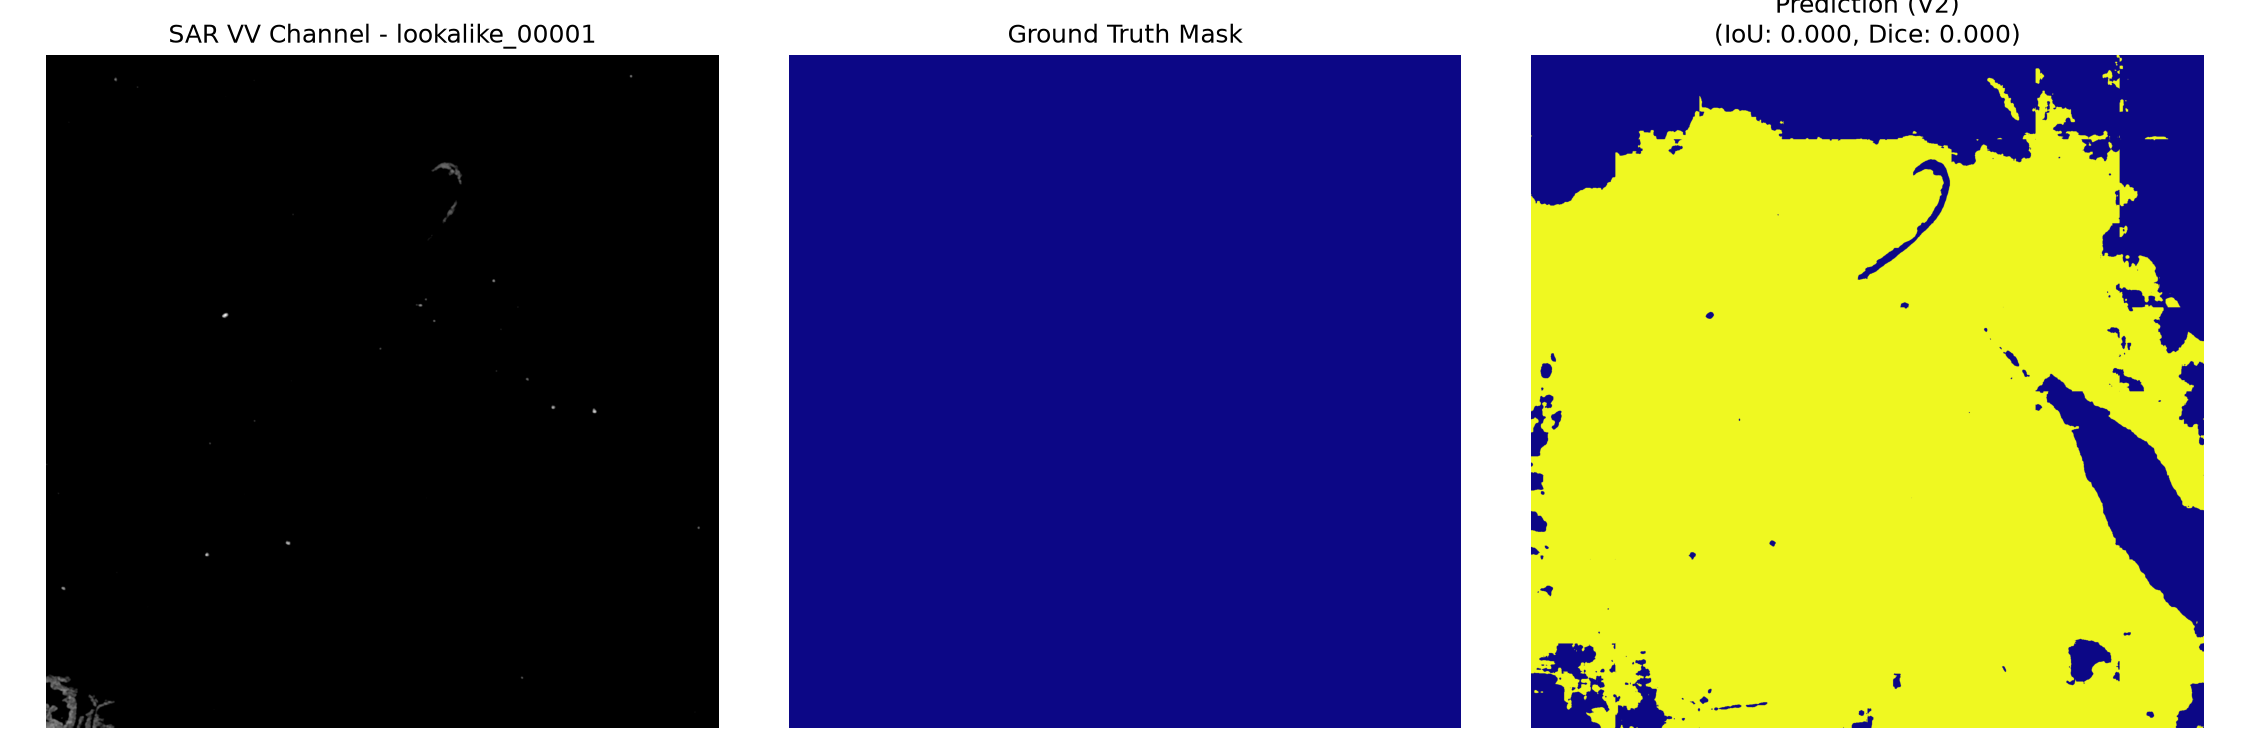
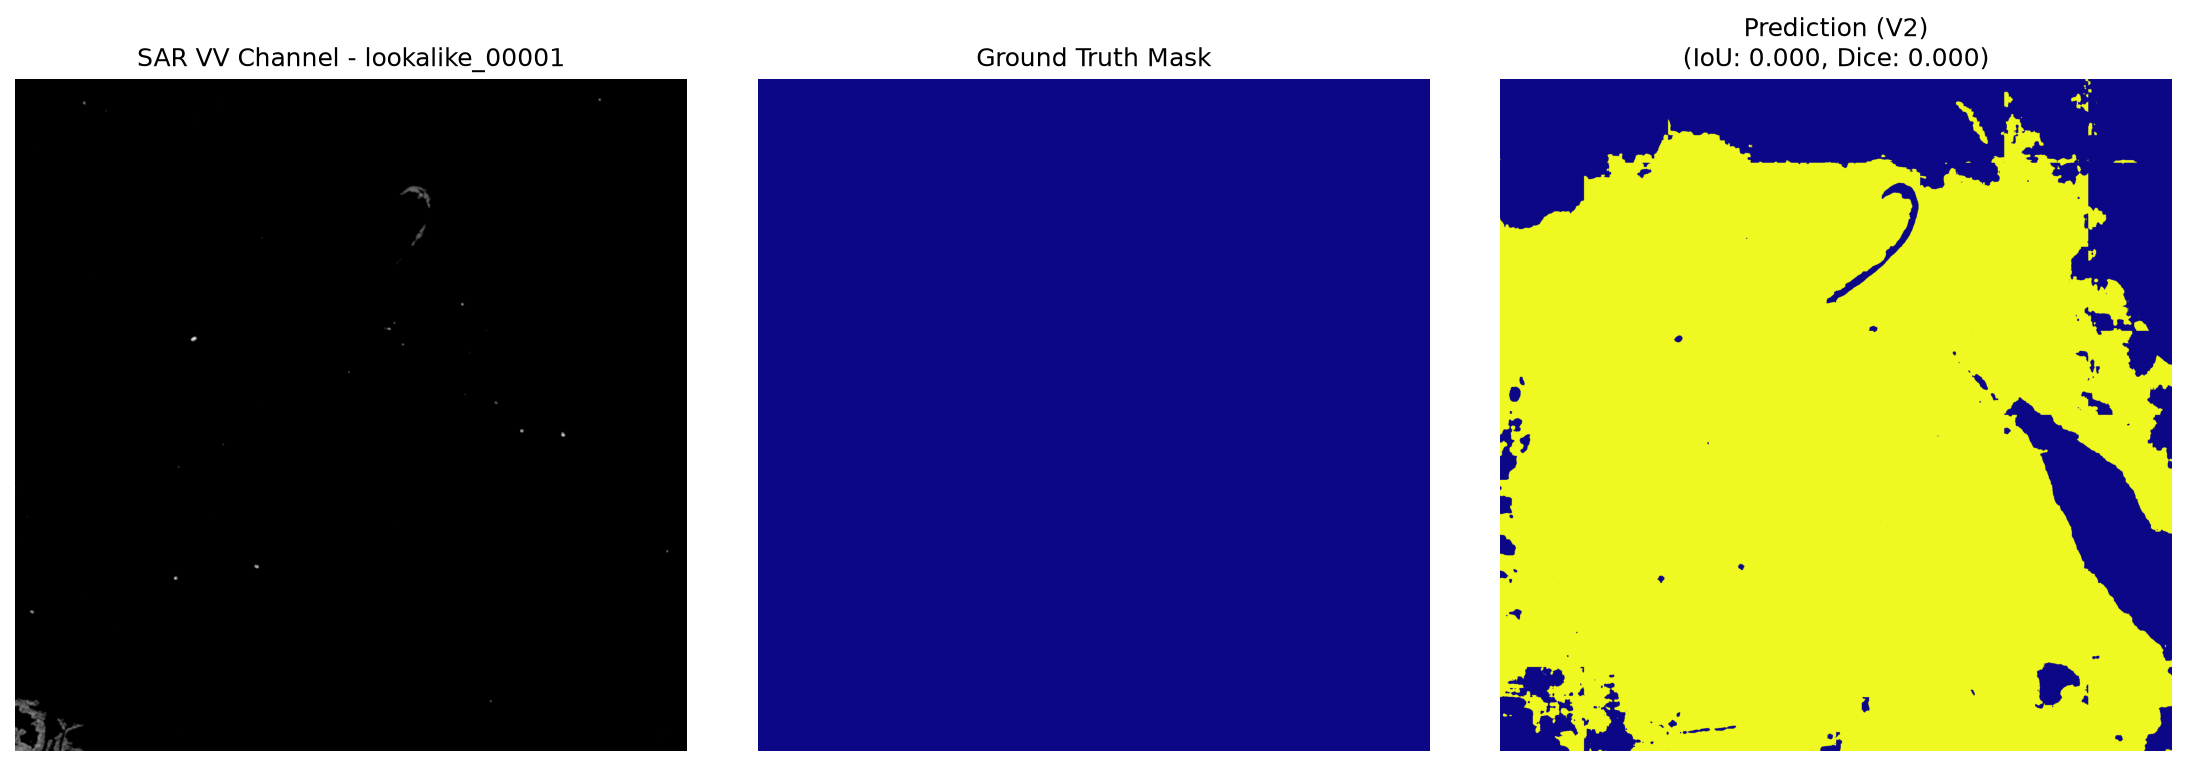
Fix title-clipping bug in evaluate_holdout.py, regenerate all 14 viz images
Root cause, found by reading the code rather than assuming: the third
subplot's title is two lines ("Prediction (V1/V2)\n(IoU: ..., Dice:
...)") while the other two panels' titles are one line. plt.tight_layout()
sizes the axes to fit within the figure's *existing* bounds -- it can
shrink the plot area but can't grow the canvas to fit a taller title.
The top of that two-line title rendered past the nominal figure bounds,
and savefig() (called without bbox_inches) silently clipped it.

Fixed properly, not a padding hack: added bbox_inches="tight" to the
savefig() call, which computes the actual rendered bounding box
(including anything that overflows the nominal figure size) and
includes all of it in the saved raster -- the standard matplotlib
mechanism for exactly this failure mode, already used elsewhere in this
project's own chart-generation code.

Verified in three stages: (1) reproduced the clipping bug in an
isolated minimal repro before touching the real script, (2) confirmed
the fix resolves it in that same isolated repro, (3) regenerated all 14
real images (v1 + v2 across all 7 viz scenes) and visually re-inspected
three of them directly -- titles fully legible, image height grew
750px -> 766px to fit the previously-clipped text, and the underlying
IoU/Dice numbers are byte-for-byte unchanged from before the fix (no
regression, cross-checked against both runs' printed summary metrics).

Re-copied the same 5 curated scene_overlays selected in the prior
[…]

diff --git a/src/evaluate_holdout.py b/src/evaluate_holdout.py
@@ -130,7 +130,12 @@ def main():
             
             plt.tight_layout()
             out_plot_path = os.path.join(docs_dir, f"holdout_{args.version}_viz_{scene_id}.png")
-            plt.savefig(out_plot_path, dpi=150)
+            # bbox_inches="tight": the third panel's title is two lines (the other
+            # two are one line), and tight_layout() sizes the axes to fit within the
+            # figure's existing bounds rather than growing the figure to fit a taller
+            # title -- without this, the top of that title renders past the canvas
+            # edge and savefig() silently clips it.
+            plt.savefig(out_plot_path, dpi=150, bbox_inches="tight")
             plt.close()
             
     # Print Summary
